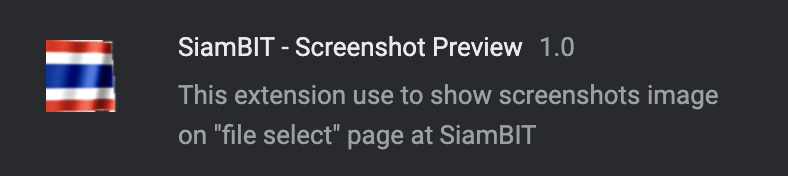
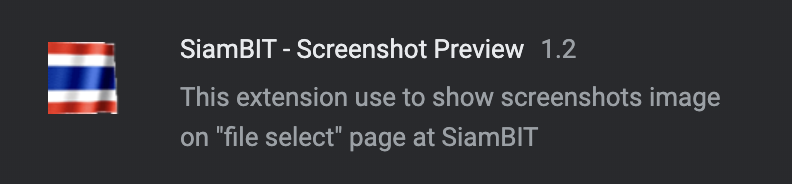
:package: Update version to 1.2

diff --git a/SiamBIT - Screenshot Preview/content.js b/SiamBIT - Screenshot Preview/content.js
@@ -1,4 +1,4 @@
-var list = document.querySelectorAll('[title="รูปภาพตัวอย่าง"]');
+var list = document.querySelectorAll('[title="รูปภาพตัวอย่าง"], [title="รูปภาพ"]');
     for (i = 0; i < list.length; i++) {
         var extension = list[i].parentNode.href.split('.').pop();
         if (extension === 'jpg' || extension === 'jpeg' || extension === 'png' || extension === 'gif') {
